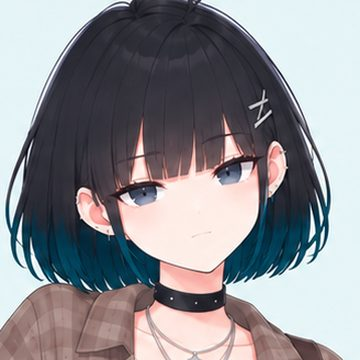
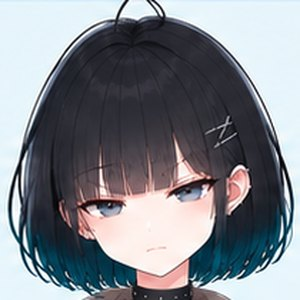
Use approved 3D sheet expressions, portraits, key art and profiles
- Six expressions per member from the final 3D reference sheets
- Member detail shows solo portrait, motto, profile facts and color refs
- EGO RING key art on title/ending, group photo on first #1 and top-10 ending
- Default group name EGO RING; fix result row text wrapping

Claude-Session: https://claude.ai/code/session_01Y4GMtxx4H5cnCZvTkF9s8f

diff --git a/index.html b/index.html
@@ -76,6 +76,25 @@ button:focus-visible{outline:3px solid var(--vocal);outline-offset:2px}
 @keyframes fade{from{opacity:0}}
 @media (prefers-reduced-motion:reduce){*{animation:none!important;transition:none!important}}
 
+.hero{position:relative;margin:-18px calc(-1 * max(18px,env(safe-area-inset-right,0px))) 0 calc(-1 * max(18px,env(safe-area-inset-left,0px)));aspect-ratio:1/0.82;max-width:none;overflow:hidden;border-radius:24px 24px 0 0;background:var(--tint)}
+.hero img{width:100%;height:100%;object-fit:cover;object-position:50% 18%;display:block}
+.hero .x{position:absolute;top:10px;right:12px;background:rgba(255,255,255,.85);border-radius:999px;width:36px;height:36px;padding:0;color:var(--ink)}
+.hero-cap{position:absolute;left:0;right:0;bottom:0;padding:40px 18px 14px;background:linear-gradient(transparent,rgba(20,21,45,.78));color:#fff;font-size:12.5px}
+.hero-cap h2{color:#fff;margin:0}.hero-cap h2 span{font-family:var(--f-body);font-size:13px;opacity:.8}
+.motto{font-family:var(--f-display);font-size:17px;margin:14px 0 0!important;color:var(--ink)}
+.facts{display:grid;grid-template-columns:repeat(4,1fr);gap:6px;margin:12px 0 0}
+.facts div{background:var(--bg);border-radius:10px;padding:7px 8px;min-width:0}
+.facts dt{font-size:10.5px;color:var(--sub)}.facts dd{margin:2px 0 0;font-size:12px;font-weight:800;overflow-wrap:anywhere}
+.swatches{display:flex;flex-wrap:wrap;gap:12px;margin-top:10px;font-size:11.5px;color:var(--sub)}
+.swatches span{display:flex;align-items:center;gap:5px}.swatches i{width:14px;height:14px;border-radius:4px;display:inline-block;box-shadow:inset 0 0 0 1px rgba(0,0,0,.08)}
+.mbars{margin-top:14px;gap:6px}.mbars .bar{grid-template-columns:40px 1fr 26px;font-size:12px}
+.trait{font-size:12px;color:var(--sub);margin-top:8px!important}
+.bubble{display:grid;grid-template-columns:52px 1fr;gap:10px;align-items:start}
+.bubble .face img{width:52px;height:52px;border-radius:12px;object-fit:cover;display:block}
+.ev-face{float:right;margin-left:10px}.ev-face img{width:56px;height:56px;border-radius:12px;object-fit:cover;display:block}
+.photo{width:100%;border-radius:16px;margin-top:14px;display:block}
+.keyart{position:relative;margin-inline:-4px}.keyart img{width:100%;aspect-ratio:1;object-fit:cover;border-radius:20px;display:block;box-shadow:0 18px 40px rgba(0,0,0,.35)}
+@media (max-width:360px){.facts{grid-template-columns:repeat(2,1fr)}}
 .profile{display:grid;grid-template-columns:110px 1fr;gap:14px;align-items:center}
 .profile .av{border-radius:16px;background:linear-gradient(var(--tint),var(--bg));display:flex;justify-content:center;align-items:flex-end;aspect-ratio:1;overflow:hidden}
 .profile .av img{width:100%;height:100%;object-fit:cover;display:block}
@@ -98,7 +117,7 @@ button:focus-visible{outline:3px solid var(--vocal);outline-offset:2px}
 .res-row{display:grid;grid-template-columns:44px 1fr;gap:10px;align-items:center;background:var(--bg);border-radius:14px;padding:8px 10px}
 .res-row img{width:44px;height:44px;border-radius:10px;object-fit:cover;display:block}
 .res-row b{font-size:13px}
-.res-row div span{display:block;font-size:12px;color:var(--sub);margin-top:2px}
+.res-row div > span{display:block;font-size:12px;color:var(--sub);margin-top:2px}
 .up{color:var(--cond);font-weight:800}.down{color:var(--warn);font-weight:800}
 .event{border:2px dashed var(--line);border-radius:16px;padding:14px;margin-top:14px}
 .event .opts{margin-top:10px}
@@ -112,9 +131,9 @@ button:focus-visible{outline:3px solid var(--vocal);outline-offset:2px}
 .row-btns{display:flex;gap:10px;margin-top:18px}
 
 /* 타이틀 */
-.title{flex:1;min-height:100%;display:flex;flex-direction:column;justify-content:center;gap:22px;padding-block:32px;padding-left:max(20px,env(safe-area-inset-left,0px));padding-right:max(20px,env(safe-area-inset-right,0px));background:var(--stage);color:var(--stage-ink);position:relative;overflow:hidden}
+.title{flex:1;min-height:100%;display:flex;flex-direction:column;justify-content:center;gap:20px;padding-block:20px 32px;padding-left:max(20px,env(safe-area-inset-left,0px));padding-right:max(20px,env(safe-area-inset-right,0px));background:var(--stage);color:var(--stage-ink);position:relative;overflow:hidden}
 .title::before{content:"";position:absolute;left:50%;top:-30%;width:140%;height:170%;transform:translateX(-50%);background:conic-gradient(from 160deg at 50% 0%,transparent 0 10deg,rgba(255,255,255,.07) 10deg 22deg,transparent 22deg 34deg,rgba(255,79,139,.12) 34deg 44deg,transparent 44deg);pointer-events:none}
-.title h1{font-family:var(--f-display);font-weight:400;font-size:44px;line-height:1.05;margin:0;position:relative}
+.title h1{font-family:var(--f-display);font-weight:400;font-size:36px;line-height:1.05;margin:0;position:relative}
 .title h1 em{font-style:normal;color:var(--accent)}
 .title p{opacity:.8;line-height:1.6;margin:0;position:relative}
 .lineup{display:grid;grid-template-columns:repeat(4,1fr);gap:4px;position:relative}
@@ -138,21 +157,29 @@ const LIVING_COST = 30; // 만원 / 월
 /* ───── 멤버 4명 (NEXT BEAT 캐릭터 설계 기준) ───── */
 const MEMBERS = [
   { id:'dorin', name:'도린', age:19, role:'메인댄서 · 래퍼', vibe:'차가운 에이스',
+    motto:'겉은 차갑게, 속은 따뜻하게.', profile:[['생일','5월 14일'],['MBTI','INTJ'],['목소리','Soft Low ~ Cool'],['키 컬러','Deep Teal']],
+    colors:[['머리','#1B1B1F'],['끝 염색','#0E6673'],['눈','#6F8EA9']],
     trait:'댄스 레슨 효과 1.3배', boost:{dance:1.3}, base:{vocal:14,dance:28,charm:16},
     tint:'#E4E1F0',
-    lines:{ hi:['…방금 그 동작, 한 번 더 맞춰볼게요.','말보다 무대로 보여드릴게요.','먼저 들어가세요. 저는 한 시간만 더 하고 갈게요.'],
+    lines:{ hi:['…무리하지 마세요. 대표님도요.','…방금 그 동작, 한 번 더 맞춰볼게요.','말보다 무대로 보여드릴게요.','먼저 들어가세요. 저는 한 시간만 더 하고 갈게요.'],
             low:['괜찮아요. …라고 하고 싶은데, 오늘은 좀 무리예요.','다리가 무거워요. 하루만 쉴게요.'] } },
   { id:'garam', name:'가람', age:18, role:'래퍼 · 서브보컬', vibe:'밝은 아이돌',
+    motto:'Bright moments, closer to you.', profile:[],
+    colors:[['머리','#BB875F'],['눈','#7A4B32'],['헤어타이','#006A7B']],
     trait:'연기·화보 수업 효과 1.3배', boost:{charm:1.3}, base:{vocal:18,dance:16,charm:27},
     tint:'#FFF4C2',
     lines:{ hi:['대표님! 오늘 랩 녹음 한 번에 끝났어요! 대박이죠?','다들 표정이 어두워서 제가 간식 쏘기로 했어요!','팬 사인회 하면 제가 제일 오래 이야기할 거예요!'],
             low:['…아, 아니에요. 그냥 좀 조용히 있고 싶었어요.','오늘은 웃는 게 잘 안 되네요. 잠깐만 혼자 있을게요.'] } },
   { id:'seon', name:'세온', age:17, role:'메인보컬', vibe:'따뜻하고 안정적인 보컬',
+    motto:'Soft days, warm heart.', profile:[],
+    colors:[['머리','#4B342F'],['눈','#8A5B4B']],
     trait:'보컬 레슨 효과 1.3배', boost:{vocal:1.3}, base:{vocal:28,dance:14,charm:18},
     tint:'#F6E1E4',
     lines:{ hi:['오늘은 목이 잘 풀렸어요. 한 곡 들려드릴까요?','다 같이 화음 맞출 때가 제일 행복해요.','노래할 때만큼은 떨리지 않아요. 믿어주세요.'],
             low:['목을 좀 아껴야 할 것 같아요. 따뜻한 차 마실게요.','조금 지쳤어요. 다들 걱정할까 봐 말 못 했어요.'] } },
   { id:'rie', name:'리에', age:16, role:'서브보컬 · 막내', vibe:'관찰형 막내',
+    motto:'どこにいても、わたしらしく。(어디에 있어도, 나답게)', profile:[],
+    colors:[['머리','#3B324A'],['눈','#7B5CFF'],['리본','#8A4BFF']],
     trait:'모든 수업 효과 1.1배 (빠른 성장)', boost:{vocal:1.1,dance:1.1,charm:1.1}, base:{vocal:19,dance:19,charm:19},
     tint:'#EEF3D2',
     lines:{ hi:['도린 언니 2절 동선, 반 박자 늦어요. …제가 말했다고 하지 마세요.','대표님, 오늘 회의 자료에 오타 있었어요.','…다들 잘하고 있어요. 제가 보고 있었어요.'],
@@ -210,6 +237,8 @@ const EVENTS = [
     b:{ label:'푹 자면 낫겠지', run:s=>{ const m=pick(s.members); m.cond=clamp(m.cond-25); return `${BY_ID[m.id].name} 컨디션 -25`; } } },
 ];
 
+const EV_WHO = { fight:'dorin', variety:'garam', busk:'seon', demo:'rie', rumor:'rie', cf:'garam', snack:'garam', cold:'seon' };
+
 /* ───── 유틸 ───── */
 const $ = sel => document.querySelector(sel);
 const clamp = (v,lo=0,hi=100) => Math.max(lo,Math.min(hi,Math.round(v)));
@@ -226,17 +255,17 @@ const esc = t => String(t).replace(/[&<>"]/g,c=>({'&':'&amp;','<':'&lt;','>':'&g
 
 /* ───── 캐릭터 그림 (SVG) ───── */
 // 캐릭터 이미지: assets/<멤버>_<표정>.jpg (캐릭터 시트에서 잘라낸 6가지 표정)
-const FACE = { normal:'neutral', happy:'smile', tired:'serious', big:'bigsmile', surprised:'surprised', laugh:'laugh' };
+const FACE = { happy:'smile', normal:'neutral', worn:'serious', tired:'upset', big:'bigsmile', surprised:'surprised' };
 function avatar(id, mood){
   const m = BY_ID[id];
   return `<img src="assets/${id}_${FACE[mood]||'neutral'}.jpg" alt="${m.name}" loading="lazy" decoding="async">`;
 }
-const moodOf = m => m.cond < 30 ? 'tired' : (m.cond >= 70 ? 'happy' : 'normal');
+const moodOf = m => m.cond < 30 ? 'tired' : m.cond < 50 ? 'worn' : m.cond >= 70 ? 'happy' : 'normal';
 
 /* ───── 상태 ───── */
 let S = null;
 function newGame(groupName){
-  return { v:1, group: groupName || 'NEXT BEAT', month:1, money:500, fans:0, debuted:false,
+  return { v:1, group: groupName || 'EGO RING', month:1, money:500, fans:0, debuted:false,
     lastStage:null, stages:[], bestRank:null, songBonus:0, lastConcept:null, ended:false, firstWin:false,
     members: MEMBERS.map(m=>({ id:m.id, ...m.base, cond:80, bond:10, chatted:false, sched:null, line:null })) };
 }
@@ -261,12 +290,13 @@ function renderTitle(){
   const saved = load();
   $('#app').innerHTML = `
   <section class="title">
+    <div class="keyart"><img src="assets/key_egoring.jpg" alt="EGO RING 멤버 4명이 꽃밭에서 어깨동무한 뒷모습"></div>
     <h1>넥스트비트<br><em>데뷔 프로젝트</em></h1>
     <p>신생 기획사의 대표가 되어 연습생 4명을 2년 안에 음원차트 1위 걸그룹으로 키워보세요.</p>
     <div class="lineup">${MEMBERS.map(m=>`<div>${avatar(m.id,'happy')}<div>${m.name}</div></div>`).join('')}</div>
     <div class="btns">
       ${saved && !saved.ended ? `<button class="btn" id="cont">이어하기<small>${esc(saved.group)} · ${periodText(saved.month)}</small></button>` : ''}
-      <div><label for="gname">그룹 이름</label><input id="gname" maxlength="14" value="NEXT BEAT" autocomplete="off"></div>
+      <div><label for="gname">그룹 이름</label><input id="gname" maxlength="14" value="EGO RING" autocomplete="off"></div>
       <button class="btn ${saved && !saved.ended ? 'alt':''}" id="start">새로 시작</button>
     </div>
   </section>`;
@@ -337,17 +367,19 @@ function openMember(id){
   const m = mem(S,id), d = BY_ID[id];
   const hearts = '♥'.repeat(Math.round(m.bond/20)) + '♡'.repeat(5-Math.round(m.bond/20));
   const line = m.line || `대표님, 이번 달 일정은 어떻게 할까요?`;
+  const face = m.chatted && m.cond>=30 ? 'big' : moodOf(m);
   openSheet(`
-    <button class="x" data-close aria-label="닫기">×</button>
-    <div class="profile" style="--tint:${d.tint}">
-      <div class="av">${avatar(id, m.chatted && m.cond>=30 ? 'big' : moodOf(m))}</div>
-      <div>
-        <h2>${d.name} <span style="font-size:14px;color:var(--sub)">${d.age}세</span></h2>
-        <div class="role" style="margin-bottom:8px">${d.role} · ${d.vibe}<br>${d.trait}</div>
-        <div class="bars">${bar('vocal',m.vocal)}${bar('dance',m.dance)}${bar('charm',m.charm)}${bar('cond',m.cond,'컨디')}</div>
-      </div>
+    <div class="hero" style="--tint:${d.tint}">
+      <img src="assets/${id}_portrait.jpg" alt="${d.name} 일러스트">
+      <button class="x" data-close aria-label="닫기">×</button>
+      <div class="hero-cap"><h2>${d.name} <span>${d.age}세</span></h2><div>${d.role} · ${d.vibe}</div></div>
     </div>
-    <div class="bubble"><span class="who">${d.name} · 호감도 <span class="hearts">${hearts}</span></span>${esc(line)}</div>
+    <p class="motto">“${esc(d.motto)}”</p>
+    ${d.profile.length?`<dl class="facts">${d.profile.map(([k,v])=>`<div><dt>${k}</dt><dd>${v}</dd></div>`).join('')}</dl>`:''}
+    <div class="swatches">${d.colors.map(([k,c])=>`<span><i style="background:${c}"></i>${k}</span>`).join('')}</div>
+    <div class="bars mbars">${bar('vocal',m.vocal)}${bar('dance',m.dance)}${bar('charm',m.charm)}${bar('cond',m.cond,'컨디')}</div>
+    <p class="trait">${d.trait}</p>
+    <div class="bubble"><div class="face">${avatar(id, face)}</div><div><span class="who">${d.name} · 호감도 <span class="hearts">${hearts}</span></span>${esc(line)}</div></div>
     <button class="talk" id="talk" ${m.chatted?'disabled':''}>${m.chatted?'이번 달 대화 완료':'대화하기 (호감도 +5)'}</button>
     <h3>이번 달 일정</h3>
     <div class="opts">${Object.keys(SCHED).map(k=>{
@@ -413,11 +445,12 @@ function runMonth(){
 }
 
 function showResult(rows, passive, ev){
+  const evWho = ev ? (EV_WHO[ev.id] || pick(MEMBERS).id) : null;
   openSheet(`
     <h2>${periodText(S.month)} 결과</h2>
     <p style="color:var(--sub);font-size:13px">숙소·운영비 -${LIVING_COST}만원${passive?' · '+passive:''}</p>
     <div class="res">${rows.map(r=>`<div class="res-row">${avatar(r.id, moodOf(mem(S,r.id)))}<div><b>${r.title}</b><span>${r.text}</span></div></div>`).join('')}</div>
-    ${ev ? `<div class="event" id="ev"><h3 style="margin-top:0">이번 달 사건</h3><b>${ev.title}</b><p style="font-size:13px;color:var(--sub)">${ev.text}</p>
+    ${ev ? `<div class="event" id="ev"><div class="ev-face">${avatar(evWho, 'surprised')}</div><h3 style="margin-top:0">이번 달 사건</h3><b>${ev.title}</b><p style="font-size:13px;color:var(--sub)">${ev.text}</p>
       <div class="opts"><button class="opt" data-c="a"><b>${ev.a.label}</b></button><button class="opt" data-c="b"><b>${ev.b.label}</b></button></div></div>` : ''}
     <div class="row-btns"><button class="btn" id="go" ${ev?'disabled':''}>다음 달로</button></div>`, true);
   if (ev) document.querySelectorAll('#ev .opt').forEach(b=>b.onclick=()=>{
@@ -481,7 +514,7 @@ function perform(cid){
       <div class="res-row">${avatar(lead.id,'big')}<div><b>${BY_ID[lead.id].name}</b><span>"${rank<=10?'우리가 해냈어요! 믿을 수가 없어요!':rank<=50?'다음엔 더 위로 올라갈 수 있어요!':'아직 시작일 뿐이에요. 더 연습할게요!'}"</span></div></div>
     </div>
     <p class="center" style="margin-top:12px">팬 <span class="up">+${fmt(fansGain)}</span> · 수익 <span class="up">+${income}만원</span> · 모두 컨디션 -10</p>
-    ${firstWin?'<p class="center" style="margin-top:8px;font-family:var(--f-display);font-size:22px;color:var(--accent)">음원차트 1위 달성!</p>':''}
+    ${firstWin?'<img class="photo" src="assets/group_photo.jpg" alt="멤버 4명 단체 사진"><p class="center" style="margin-top:8px;font-family:var(--f-display);font-size:22px;color:var(--accent)">음원차트 1위 달성!</p>':''}
     <div class="row-btns"><button class="btn" data-close>확인</button></div>`, true);
   countRank(rank);
   renderMain();
@@ -505,7 +538,7 @@ function showEnding(){
     <p>${esc(s.group)} · ${LAST_MONTH}개월의 기록</p>
     <h1>등급 <em>${grade}</em></h1>
     <p>${msg}</p>
-    <div class="lineup">${s.members.map(m=>`<div>${avatar(m.id,'laugh')}<div>${BY_ID[m.id].name}</div></div>`).join('')}</div>
+    <div class="keyart"><img src="assets/${r && r<=10 ? 'group_photo' : 'key_egoring'}.jpg" alt="${esc(s.group)} 멤버 4명"></div>
     <div class="wallet" style="margin:0">
       <div><span>최고 순위</span><b class="num">${r?r+'위':'-'}</b></div>
       <div><span>팬</span><b class="num">${fmt(s.fans)}</b></div>

diff --git a/README.md b/README.md
@@ -11,9 +11,15 @@
 | 세온 (17) | 메인보컬 | 따뜻하고 안정적인 보컬 | 보컬 레슨 효과 1.3배 |
 | 리에 (16) | 서브보컬 · 막내 | 관찰형 막내 | 모든 수업 효과 1.1배 |
 
-캐릭터 그림은 `assets/` 폴더의 이미지(멤버별 캐릭터 시트에서 잘라낸 6가지 표정)를 사용합니다.
-상황에 따라 표정이 바뀝니다: 평소 `neutral`, 컨디션 좋음 `smile`, 지침 `serious`, 대화 직후·무대 MVP `bigsmile`, 엔딩 `laugh`.
-파일 이름 규칙: `<멤버id>_<표정>.jpg` (멤버id: dorin, garam, seon, rie)
+### 사용한 이미지 (`assets/`)
+| 파일 | 출처 | 쓰는 곳 |
+|---|---|---|
+| `<멤버>_neutral/smile/bigsmile/surprised/serious/upset.jpg` | 멤버별 3D 레퍼런스 시트(FACE TURNAROUND)의 표정 6종 | 멤버 카드, 결과, 사건 화면 |
+| `<멤버>_portrait.jpg` | 멤버별 단독 일러스트 | 멤버 상세 화면 상단 |
+| `key_egoring.jpg` | EGO RING 키 아트 | 시작 화면, 엔딩 |
+| `group_photo.jpg` | 4인 단체 일러스트 | 첫 1위 달성, TOP 10 엔딩 |
+
+표정 규칙: 컨디션 70 이상 `smile` · 50~69 `neutral` · 30~49 `serious` · 30 미만 `upset`, 대화 직후·무대 MVP `bigsmile`, 사건 발생 `surprised`.
 
 ## 진행 방식
 1. 매달 멤버 카드를 눌러 일정(보컬/댄스/연기·화보/아르바이트/SNS 라이브/휴식)을 정합니다.
